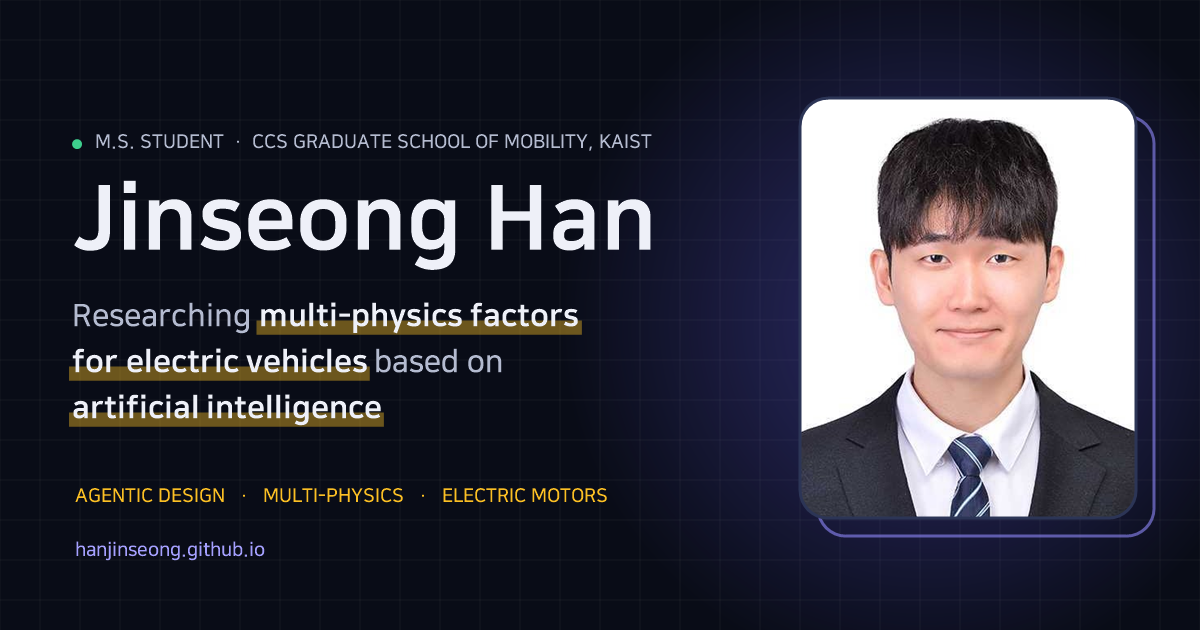
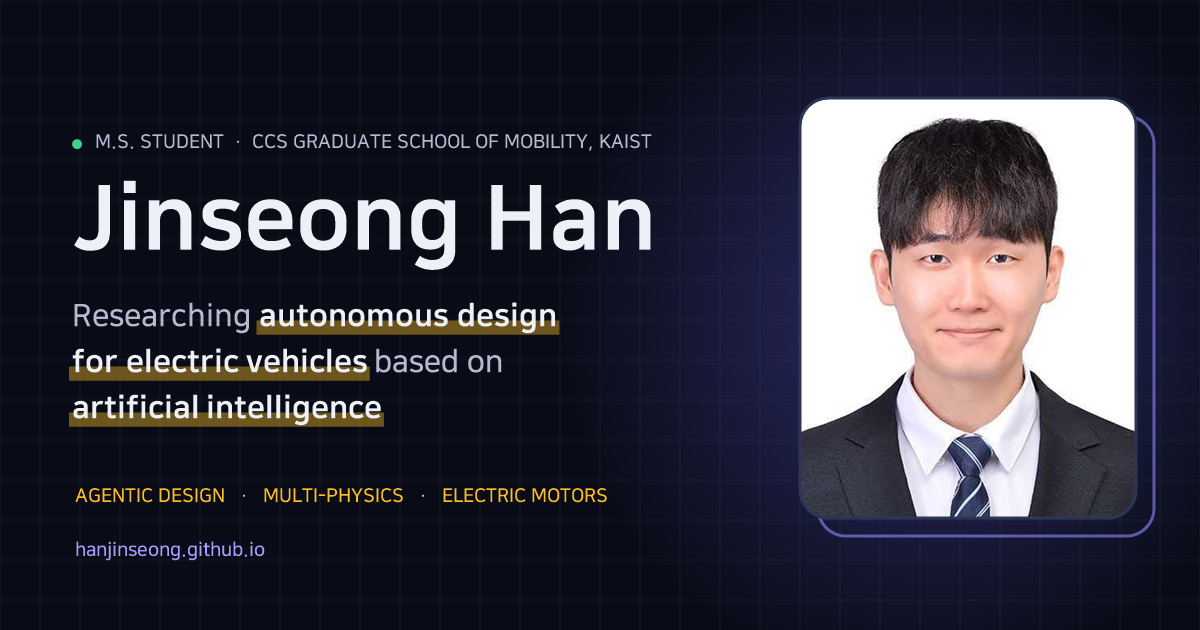
Tagline: autonomous design for electric vehicles
Update the hero line, page title and description, and re-render the social
preview image. Bump asset ?v=10.

Changed region(s): [[0.2158, 0.4825, 0.4933, 0.5429]]

diff --git a/index.html b/index.html
@@ -3,8 +3,8 @@
 <head>
   <meta charset="utf-8">
   <meta name="viewport" content="width=device-width, initial-scale=1">
-  <title>Jinseong Han — AI for Multi-Physics Design of Electric Vehicles · KAIST</title>
-  <meta name="description" content="Jinseong Han is an M.S. student at the CCS Graduate School of Mobility, KAIST (Smart Design Lab). He researches multi-physics design for electric vehicles with AI: LLM multi-agent motor design optimization, FEA–AI hybrid surrogates, flow-field prediction and manufacturing-aware geometry.">
+  <title>Jinseong Han — AI for Autonomous Design of Electric Vehicles · KAIST</title>
+  <meta name="description" content="Jinseong Han is an M.S. student at the CCS Graduate School of Mobility, KAIST (Smart Design Lab). He researches autonomous design for electric vehicles with AI: LLM multi-agent motor design optimization, FEA–AI hybrid surrogates, flow-field prediction and manufacturing-aware geometry.">
   <meta name="author" content="Jinseong Han">
   <meta name="theme-color" content="#f4f5fa" media="(prefers-color-scheme: light)">
   <meta name="theme-color" content="#090c17" media="(prefers-color-scheme: dark)">
@@ -12,7 +12,7 @@
 
   <meta property="og:type" content="website">
   <meta property="og:site_name" content="Jinseong Han">
-  <meta property="og:title" content="Jinseong Han — AI for Multi-Physics Design of Electric Vehicles">
+  <meta property="og:title" content="Jinseong Han — AI for Autonomous Design of Electric Vehicles">
   <meta property="og:description" content="M.S. student at KAIST (Smart Design Lab). LLM multi-agent motor design, FEA–AI hybrid optimization, multi-physics surrogates. Live demo inside.">
   <meta property="og:url" content="https://hanjinseong.github.io/">
   <meta property="og:image" content="https://hanjinseong.github.io/assets/img/og.png">
@@ -39,8 +39,8 @@
   <!-- NanumSquare (Bold / ExtraBold) is declared in style.css and served from jsDelivr -->
   <link rel="preconnect" href="https://cdn.jsdelivr.net" crossorigin>
   <!-- Bump ?v= whenever style.css / main.js change, so browsers don't keep a stale cached copy -->
-  <link rel="stylesheet" href="assets/css/style.css?v=9">
-  <noscript><link rel="stylesheet" href="assets/css/noscript.css?v=9"></noscript>
+  <link rel="stylesheet" href="assets/css/style.css?v=10">
+  <noscript><link rel="stylesheet" href="assets/css/noscript.css?v=10"></noscript>
 
   <script type="application/ld+json">
   {
@@ -128,7 +128,7 @@
       <div class="hero__text">
         <p class="hero__eyebrow"><span class="dot" aria-hidden="true"></span>M.S. Student · CCS Graduate School of Mobility, KAIST</p>
         <h1 class="hero__name">Jinseong Han <span class="hero__ko" lang="ko">한진성</span></h1>
-        <p class="hero__lead">Researching <mark>multi-physics factors for electric vehicles</mark> based on <mark>artificial intelligence</mark>.</p>
+        <p class="hero__lead">Researching <mark>autonomous design for electric vehicles</mark> based on <mark>artificial intelligence</mark>.</p>
         <ul class="chips" aria-label="Research interests">
           <li>Agentic design</li>
           <li>Multi-physics</li>
@@ -681,6 +681,6 @@
   </article>
 </dialog>
 
-<script src="assets/js/main.js?v=9" defer></script>
+<script src="assets/js/main.js?v=10" defer></script>
 </body>
 </html>

diff --git a/404.html b/404.html
@@ -16,7 +16,7 @@
     })();
   </script>
   <link rel="preconnect" href="https://cdn.jsdelivr.net" crossorigin>
-  <link rel="stylesheet" href="/assets/css/style.css?v=9">
+  <link rel="stylesheet" href="/assets/css/style.css?v=10">
   <style>
     .lost { min-height: 100dvh; display: grid; place-content: center; justify-items: start; gap: 14px; }
     .lost h1 { font-weight: 800; font-size: clamp(44px, 9vw, 92px); line-height: 1.02; letter-spacing: -.03em; }
